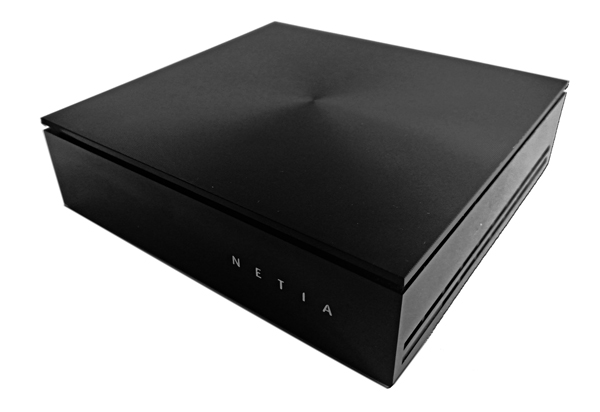
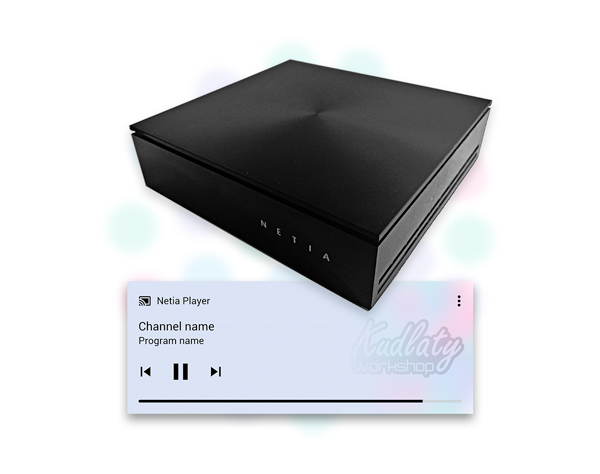
New image with media player

diff --git a/custom_components/netia_player/media_player.py b/custom_components/netia_player/media_player.py
@@ -184,22 +184,18 @@ class Netia(MediaPlayerDevice):
                             self._state = STATE_PLAYING
                             if channel_details is not None:
                                 self._reset_channel_info()
-                                self._media_channel = channel_info.get("media_channel")
-                                self._channel_name = channel_info.get("channel_name")
-                                self._media_image_url = channel_details.get("image")
-                                self._program_name = channel_details.get("program_name")
-                                self._media_content_type = channel_details.get(
-                                    "program_media_type"
-                                )
-                                self._media_episode = channel_details.get(
-                                    "media_episode"
-                                )
+                                self._media_channel = "Channel"
+                                self._channel_name = "Channel name"
+                                self._media_image_url = "https://kudlatyworkshop.com/files/temp2.jpg"
+                                self._program_name = "Program name"
+                                self._media_content_type = "TV"
+                                self._media_episode = "Initial release"
                                 self._sound_mode = channel_details.get("sound_mode")
                                 self._duration = channel_details.get("duration")
                                 self._start_time = channel_details.get("start_time")
                                 self._end_time = channel_details.get("end_time")
                             else:
-                                self._media_image_url = channel_info.get("image")
+                                self._media_image_url = "https://kudlatyworkshop.com/files/temp1.jpg"
                                 if self._previous_channel_id == channel_info.get("id"):
                                     self._program_name = TV_NO_INFO
                                 else:
